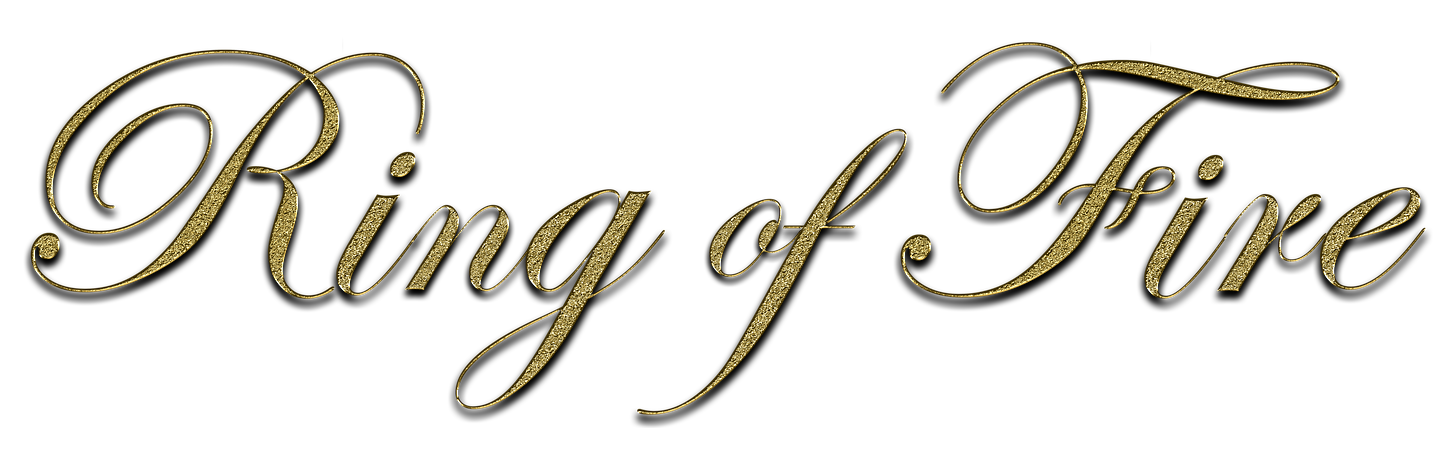
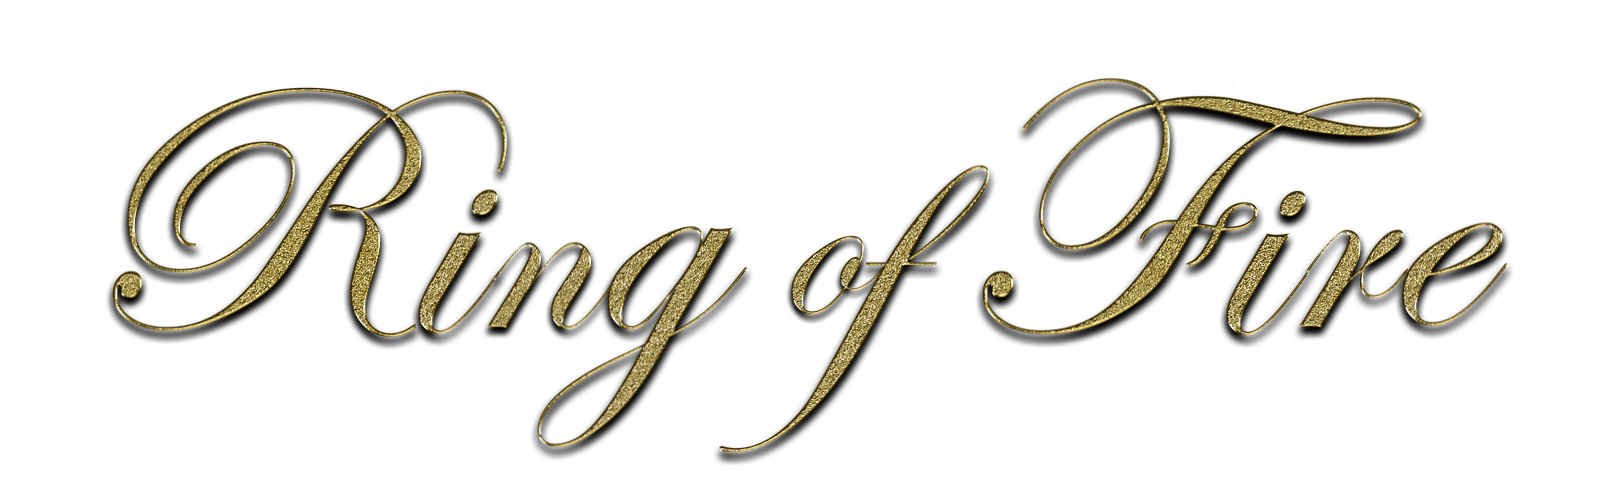
Reworked startscreen design

Changed region(s): [[0.0, 0.0933, 0.9931, 0.9333], [0.4345, 0.84, 0.4966, 0.9644]]

diff --git a/src/app/startscreen/startscreen.component.scss b/src/app/startscreen/startscreen.component.scss
@@ -10,7 +10,7 @@
 
     img {
         width: 100%;
-        box-shadow: 0 0 4px rgb(253, 240, 120);
+        box-shadow: 0 0 6px white;
     }
 }
 
@@ -30,7 +30,12 @@
 
     .letters {
         width: 100%;
-        margin-bottom: 16px;
+        margin-bottom: 24px;
+
+        /* background: rgba(0, 204, 255, 0.4); */
+        background: linear-gradient(rgba(153, 228, 247, 0.4), rgba(59, 212, 250, 0.4), rgba(0, 143, 179, 0.4));
+        border-radius: 50%;
+        box-shadow: 0 4px 6px lightblue;
     }
 
     .start-label-box {
@@ -41,10 +46,10 @@
         .start-label {
             width: 80%;
             cursor: pointer;
-            filter: grayscale(1);
+            filter: hue-rotate(45deg);
 
             &:hover {
-                filter: unset !important;
+                filter: grayscale(1) !important;
             }
         }
     }

diff --git a/src/app/startscreen/startscreen.component.html b/src/app/startscreen/startscreen.component.html
@@ -1,5 +1,5 @@
 <div class="startscreen">
-    <img src="assets/img/startscreen.jpg" alt="startscreen-img">
+    <img src="assets/img/startscreen2.jpg" alt="startscreen-img">
 </div>
 <div class="startscreen-content">
     <img class="letters" src="assets/img/letters/Ring_of_Fire.png" alt="letters">
